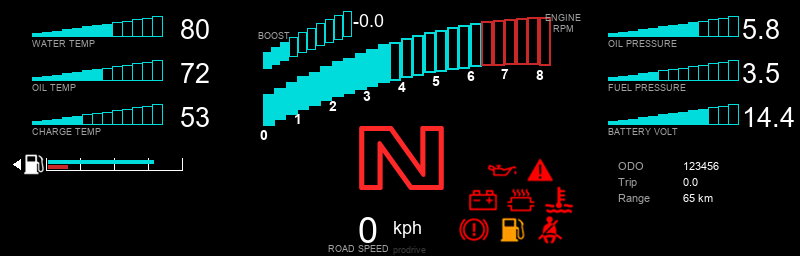
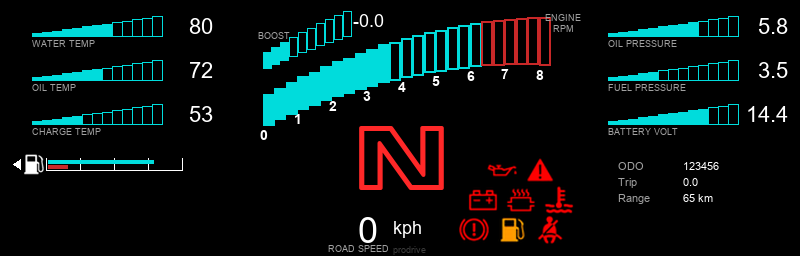
fix: 6ゲージ数値フォントサイズ22pt化・右揃え

diff --git a/tools/_gen_eez003_mockup.py b/tools/_gen_eez003_mockup.py
@@ -31,12 +31,13 @@ WARN_RED = (220, 40, 40)
 try:
     font_lg  = ImageFont.truetype("arial.ttf", 48)
     font_big = ImageFont.truetype("arial.ttf", 27)
+    font_gauge = ImageFont.truetype("arial.ttf", 22)
     font_spd = ImageFont.truetype("arial.ttf", 36)
     font_med = ImageFont.truetype("arial.ttf", 18)
     font_sm  = ImageFont.truetype("arial.ttf", 11)
     font_xs  = ImageFont.truetype("arial.ttf", 9)
 except:
-    font_lg = font_big = font_spd = font_med = font_sm = font_xs = ImageFont.load_default()
+    font_lg = font_big = font_gauge = font_spd = font_med = font_sm = font_xs = ImageFont.load_default()
 
 img = Image.new("RGB", (W, H), BLACK)
 draw = ImageDraw.Draw(img)
@@ -90,7 +91,7 @@ for name, val, bw, pct, yb in left_rows:
     ns = max(6, int(bw / 10))
     wedge_bar_seg(14, yb, bw, 3, 20, pct, num_segs=ns)
     draw.text((sx(14), yb + 2), name, fill=GRAY, font=font_xs)
-    draw.text((sx(162), yb - 22), val, fill=WHITE, font=font_big)
+    draw.text((sx(195), yb - 18), val, fill=WHITE, font=font_gauge, anchor="rt")
 
 # ═══════════════════════════════════════════════════════════════════
 # RIGHT SENSORS (3 rows) — WEDGE BARS: left-origin (same as left side)
@@ -106,7 +107,7 @@ for name, val, bw, pct, yb in right_rows:
     ns = max(6, int(bw / 10))
     wedge_bar_seg(right_bar_x, yb, bw, 3, 20, pct, num_segs=ns)
     draw.text((sx(right_bar_x), yb + 2), name, fill=GRAY, font=font_xs)
-    draw.text((sx(right_bar_x + bw + 4), yb - 22), val, fill=WHITE, font=font_big)
+    draw.text((sx(right_bar_x + bw + 50), yb - 18), val, fill=WHITE, font=font_gauge, anchor="rt")
 
 # ═══════════════════════════════════════════════════════════════════
 # BOOST GAUGE — arc-shaped segmented bars (concentric with tacho arc)
